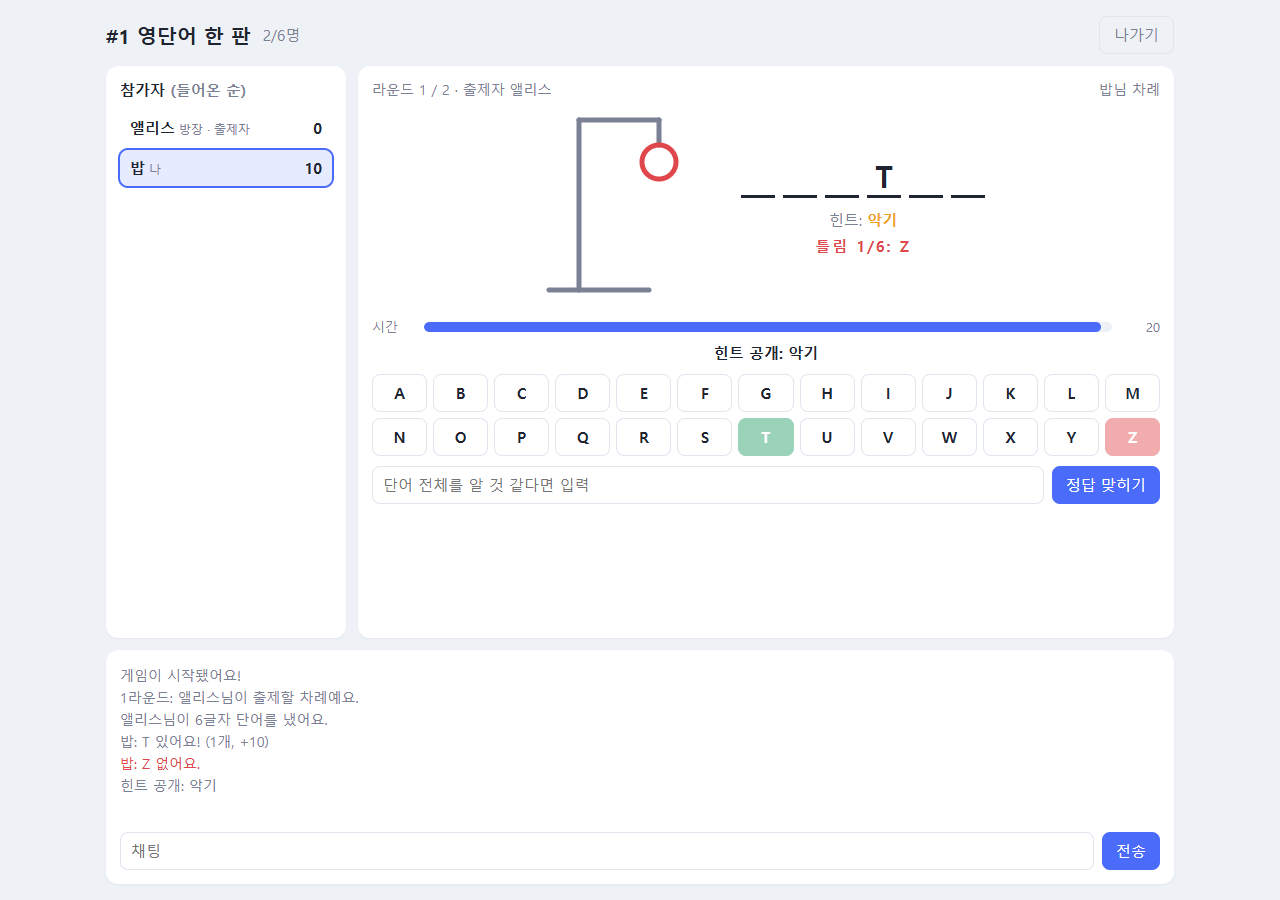
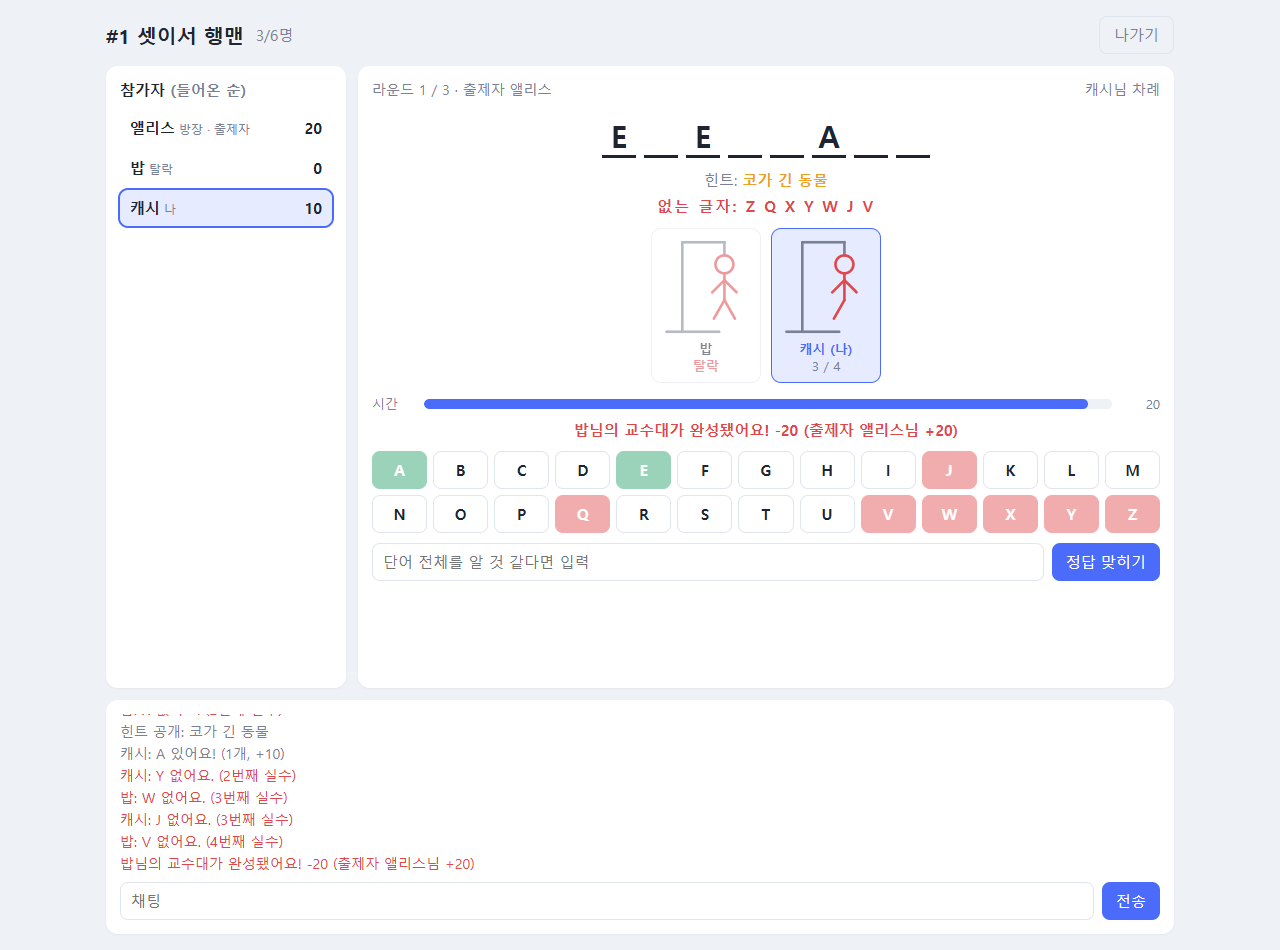
docs: 행맨 규칙·점수 설명과 스크린샷을 사람별 교수대에 맞게 수정

diff --git a/hangman/README.md b/hangman/README.md
@@ -15,8 +15,9 @@
 ## 이런 게임이에요
 
 한 명이 **영어 단어**를 내면, 나머지가 **차례대로 알파벳을 하나씩** 골라 맞혀요.
-단어에 있는 글자면 빈칸이 채워지고, 없는 글자면 교수대에 사람이 한 획씩 그려집니다.
-**교수대가 완성되기 전에** 단어를 알아내세요!
+단어에 있는 글자면 빈칸이 채워지고, 없는 글자면 **내 교수대**에 사람이 한 획씩 그려집니다.
+교수대는 **사람마다 하나씩** 있어요. 내 교수대가 완성되면 그 라운드에서 탈락이에요.
+**먼저 매달리기 전에** 단어를 알아내세요!
 
 - 👥 **2~8명**이 함께해요. 모두 한 번씩 **출제자**가 돼요.
 - 📖 출제 단어는 **영어 사전(약 17만 단어)**에 있는 말만 낼 수 있어요.
@@ -36,12 +37,14 @@
 | 상황 | 결과 |
 |---|---|
 | 있는 글자를 고름 | 그 글자가 전부 열리고 **한 번 더** 고를 수 있어요. |
-| 없는 글자를 고름 | 교수대에 한 획이 그려지고 다음 사람 차례예요. |
+| 없는 글자를 고름 | **내 교수대**에 한 획이 그려지고 다음 사람 차례예요. |
 | 단어 전체를 맞힘 | 라운드 승리! 남은 빈칸만큼 점수를 받아요. |
-| 단어 전체를 틀림 | 교수대에 한 획, 다음 사람 차례예요. |
+| 단어 전체를 틀림 | 내 교수대에 한 획, 다음 사람 차례예요. |
 | 시간 초과 | 벌점 없이 다음 사람에게 넘어가요. |
-| 교수대 완성 | 아무도 못 맞힘. **출제자**가 점수를 받아요. |
+| 내 교수대 완성 | **탈락**. 점수가 깎이고, 이번 라운드에서는 차례가 오지 않아요. |
+| 모두 탈락 | 아무도 못 맞히고 라운드가 끝나요. |
 
+- 없는 글자는 모두에게 보여요. 다른 사람이 이미 틀린 글자는 고를 수 없어요.
 - 출제자는 **60초** 안에 단어를 내야 해요. 넘기면 쉬운 단어가 자동으로 출제돼요.
 - 출제는 **3~15글자 영어 단어**만 되고, 사전에 없는 말은 받지 않아요.
 
@@ -51,9 +54,10 @@
 |---|---:|
 | 맞힌 글자 1개 (`P`가 2번 나오면 2개) | 10 |
 | 단어 전체 맞히기 | 남은 빈칸 × 10 + **30** |
-| 교수대 완성 (출제자) | **50** |
+| 내 교수대 완성 (탈락) | **-20** |
+| 출제자: 교수대가 완성된 사람 1명당 | **+20** |
 
-어려운 단어를 낼수록 출제자에게 유리하고, 빨리 알아챌수록 추측하는 사람에게 유리해요.
+어려운 단어를 낼수록 출제자에게 유리하고, 무턱대고 찍으면 먼저 매달려서 손해예요.
 
 ## 힌트
 
@@ -66,7 +70,7 @@
 | 설정 | 기본값 | 범위 |
 |---|:-:|:-:|
 | 출제 바퀴 수 (각자 몇 번씩 출제할지) | 1 | 1~3 |
-| 목숨 (틀릴 수 있는 횟수) | 6 | 4~10 |
+| 목숨 (각자 틀릴 수 있는 횟수) | 6 | 4~10 |
 | 턴 시간 | 20초 | 10~60초 |
 | 힌트 공개 (추측 N번 뒤) | 4 | 1~15 |
 | 최대 인원 | 6명 | 2~8명 |
@@ -76,7 +80,7 @@
 <details>
 <summary><b>게임 중에 누가 나가면요?</b></summary>
 
-- **추측할 차례인 사람**이 나가면 다음 사람에게 바로 넘어가요.
+- **추측할 차례인 사람**이 나가면 다음 사람에게 바로 넘어가요. 남은 사람이 모두 탈락한 상태라면 라운드가 끝나요.
 - **출제자**가 나가면 그 라운드는 취소되고, 다음 사람이 출제해요.
 - 두 명 미만이 되면 게임이 끝나요.
 </details>

diff --git a/docs/DEVELOPMENT.md b/docs/DEVELOPMENT.md
@@ -250,7 +250,8 @@ hangman/
 ```
 
 - 라운드 단계: `setting`(출제) → `guessing`(추측) → `break`(정답 공개) → 다음 라운드
-- 출제 순서와 추측 순서는 모두 **방에 들어온 순서**입니다. 추측 순서는 출제자 다음 사람부터 시작하고 출제자는 건너뜁니다.
+- 출제 순서와 추측 순서는 모두 **방에 들어온 순서**입니다. 추측 순서는 출제자 다음 사람부터 시작하고, 출제자와 탈락자는 건너뜁니다.
+- 교수대는 추측자마다 따로 있습니다(`strikes: {player_id: n}`). 목숨만큼 틀리면 `hanged`에 들어가 그 라운드에서 탈락하고, 추측자가 모두 탈락하면 라운드가 끝납니다.
 - 게임 상태는 플레이어마다 따로 보냅니다(`type: "game"`). **정답(`word`)은 출제자와 정답 공개 때만** 들어갑니다.
 - 테스트에서 여러 WebSocket을 열 때는 `with TestClient(app) as client:`처럼 열어야 모든 연결이 이벤트 루프 하나를 공유합니다.
 
@@ -266,5 +267,5 @@ hangman/
 
 | 서버 → 클라이언트 | 설명 |
 |---|---|
-| `game` | `game`: 내 시점의 게임 상태, `events`: 방금 일어난 일 목록 (`letter_ok`, `letter_fail`, `word_ok`, `hint` …) |
+| `game` | `game`: 내 시점의 게임 상태, `events`: 방금 일어난 일 목록 (`letter_ok`, `letter_fail`, `word_ok`, `hanged`, `hint` …) |
 | `game_over` | 최종 순위 |

diff --git a/README.md b/README.md
@@ -55,7 +55,8 @@ AI가 한 수 한 수를 어떻게 평가하는지 보여주는 **학습 모드*
 <img src="docs/images/hangman-game.png" alt="행맨 게임 화면" width="760">
 
 한 명이 영어 단어를 내면, 나머지가 차례대로 알파벳을 골라 맞히는 게임입니다.
-틀릴 때마다 교수대가 한 획씩 그려져요. 모두가 돌아가며 출제자가 되고, 추측이 길어지면 힌트가 열립니다.
+교수대는 사람마다 하나씩, 틀릴 때마다 내 교수대에 한 획씩 그려져요. 먼저 매달리면 탈락!
+모두가 돌아가며 출제자가 되고, 추측이 길어지면 힌트가 열립니다.
 
 [게임 설명 보기 →](hangman/README.md)
 
